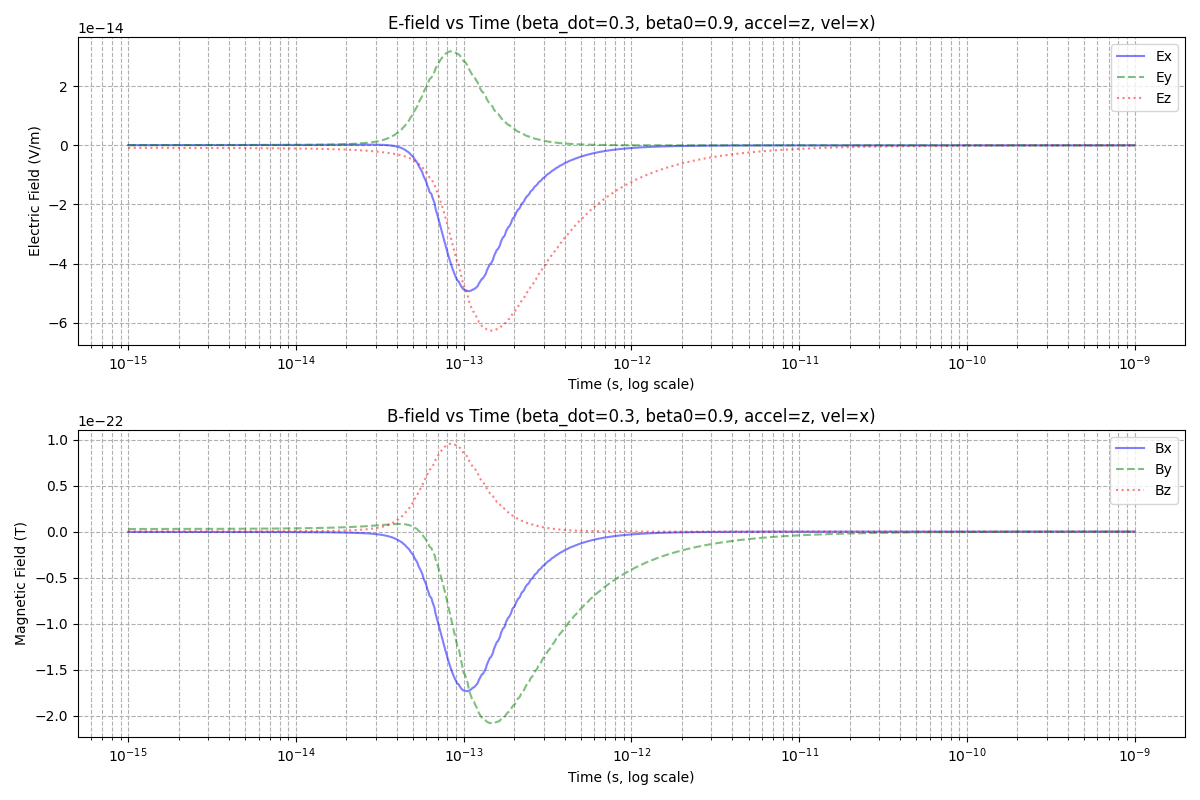
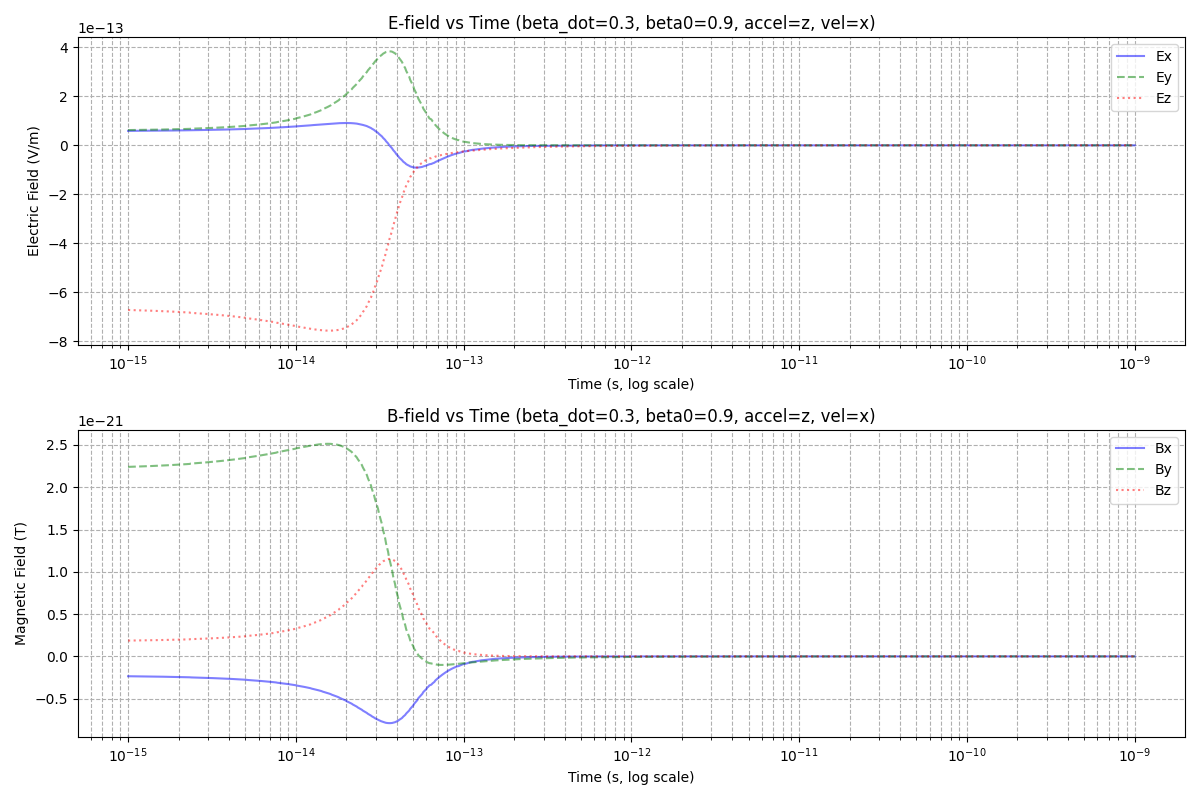
Question_2 for Assignment_2

diff --git a/Assignment_2/Question_2/src/E_M_radiation_calculation.py b/Assignment_2/Question_2/src/E_M_radiation_calculation.py
@@ -55,7 +55,8 @@ def radiation_field(charge, r_obs, t_obs):
         n = R_vec / R
         beta = charge.velocity(tr)
         beta_dot = charge.beta_dot_vec()
-        E = (charge.q/(4*pi*epsilon_0*c)) * np.cross(n, np.cross(n - beta, beta_dot)) / R
+        k = 1 - np.dot(n, beta)
+        E = (charge.q/(4*pi*epsilon_0*c)) * np.cross(n, np.cross(n - beta, beta_dot)) / (R * k**3)
         B = np.cross(n, E) / c
         E_list.append(E)
         B_list.append(B)
